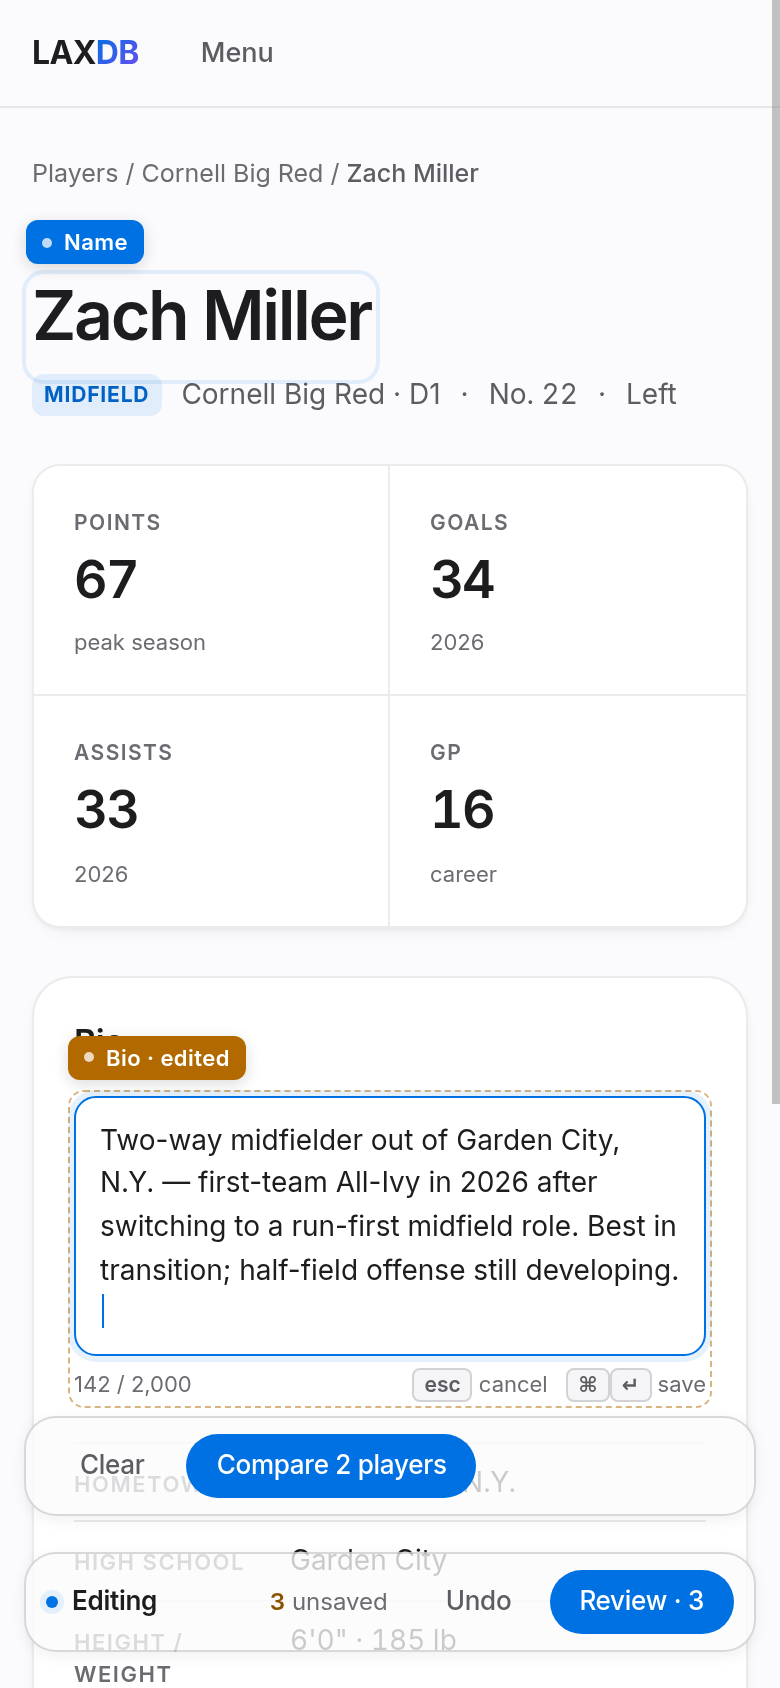
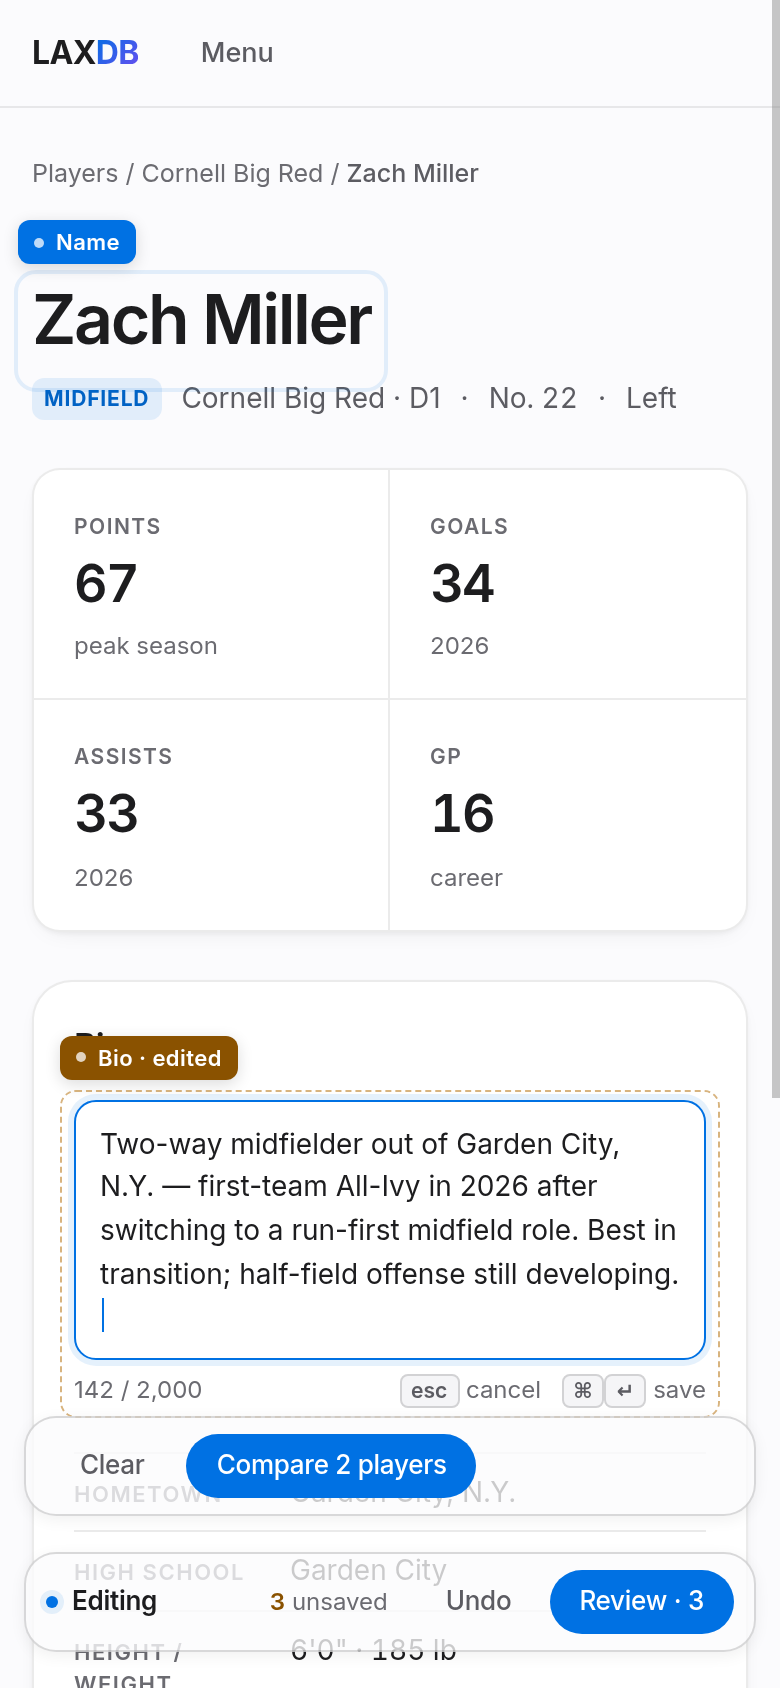
docs: cms dock still — fix contrast and label sizes, waive reproduced tokens
White on the amber chip measured 4.2:1 (now the ink step), hints moved to the
12px step, avatar initials off the 10px floor, chips given real vertical inset.
The 10.5px label ramp, wordmark gradient and Inter substitution are reproductions
of the shipped design, so they are waived per-file in .impeccable/config.json.

diff --git a/docs/cms-preview.html b/docs/cms-preview.html
@@ -4,6 +4,10 @@
   Tokens are copied verbatim from src/styles.css so what you see is what the
   build will render. Inter is loaded only because this box has no system SF/Segoe
   face; the app itself uses the system stack, as DESIGN.md requires.
+
+  Detector findings on this file are waived per-file in .impeccable/config.json:
+  the 10.5px label ramp, the wordmark gradient, the chip/outline insets and the
+  Inter substitution are all reproductions of the shipped design, not new UI.
 -->
 <html lang="en">
 <head>
@@ -80,7 +84,7 @@ h1 { font-size: clamp(34px, 4.2vw, 48px); font-weight: 600; letter-spacing: -.03
 .muted { color: var(--text-2); }
 
 /* ---------------------------- editable field ---------------------------- */
-.ed { position: relative; border-radius: 6px; }
+.ed { position: relative; border-radius: 6px; padding: 2px 4px; margin: -2px -4px; }
 .ed.hot { outline: 2px solid var(--accent-soft); outline-offset: 3px; }
 .field-tip {
   position: absolute; top: -30px; left: -3px; display: flex; align-items: center; gap: 6px;
@@ -89,7 +93,7 @@ h1 { font-size: clamp(34px, 4.2vw, 48px); font-weight: 600; letter-spacing: -.03
   box-shadow: 0 2px 8px rgba(0,0,0,.14);
 }
 .field-tip i { width: 5px; height: 5px; border-radius: 50%; background: #fff; opacity: .75; }
-.ed.dirty .field-tip { background: var(--amber); }
+.ed.dirty .field-tip { background: var(--amber-ink); }
 /* anchor is top-right by default; the dock flips it under the box when the
    element sits within 60px of the viewport top (see docs/cms.md 1.2) */
 .ed.dirty::after {
@@ -104,7 +108,7 @@ h1 { font-size: clamp(34px, 4.2vw, 48px); font-weight: 600; letter-spacing: -.03
 .caret { display: inline-block; width: 1px; height: 17px; margin-left: 1px; vertical-align: -3px; background: var(--accent); animation: blink 1.1s steps(1) infinite; }
 @keyframes blink { 50% { opacity: 0; } }
 .edit-foot { display: flex; justify-content: space-between; align-items: center; margin-top: 6px; }
-.hint { font-size: 11px; color: var(--text-3); }
+.hint { font-size: 12px; color: var(--text-3); }
 kbd {
   font: inherit; font-size: 10.5px; font-weight: 600; padding: 1px 5px; border-radius: 4px;
   border: 1px solid var(--hairline-strong); background: var(--card-2); color: var(--text-2);
@@ -122,7 +126,7 @@ kbd {
 .tray-person { display: flex; align-items: center; gap: 7px; font-size: 13px; font-weight: 500; }
 .tray-x { border: 0; background: transparent; color: var(--text-3); cursor: pointer; font-size: 15px; line-height: 1; padding: 0 2px; }
 .tray-actions { display: flex; gap: 6px; }
-.av { width: 30px; height: 30px; border-radius: 9px; background: linear-gradient(135deg,#0f2b4d,#2f6f9f); color: #fff; display: grid; place-items: center; font-size: 10px; font-weight: 700; }
+.av { width: 30px; height: 30px; border-radius: 9px; background: linear-gradient(135deg,#0f2b4d,#2f6f9f); color: #fff; display: grid; place-items: center; font-size: 11px; font-weight: 700; }
 .btn { display: inline-flex; align-items: center; justify-content: center; gap: 6px; height: 38px; padding: 0 18px; border-radius: 980px; border: 1px solid transparent; font: inherit; font-size: 14px; font-weight: 500; letter-spacing: -.01em; cursor: pointer; }
 .btn-sm { height: 32px; padding: 0 14px; font-size: 13px; }
 .btn-primary { background: var(--accent); color: #fff; }
@@ -140,7 +144,7 @@ kbd {
 .cms-sep { width: 1px; height: 22px; background: var(--hairline); }
 .cms-stack { display: flex; gap: 8px; overflow: visible; align-items: center; height: 32px; }
 .chip {
-  display: inline-flex; align-items: center; gap: 6px; height: 26px; padding: 0 8px 0 10px;
+  display: inline-flex; align-items: center; gap: 6px; min-height: 26px; padding: 4px 8px 4px 10px;
   border-radius: 980px; border: 1px solid var(--hairline-strong); background: var(--card);
   font-size: 12.5px; font-weight: 500; white-space: nowrap;
 }
